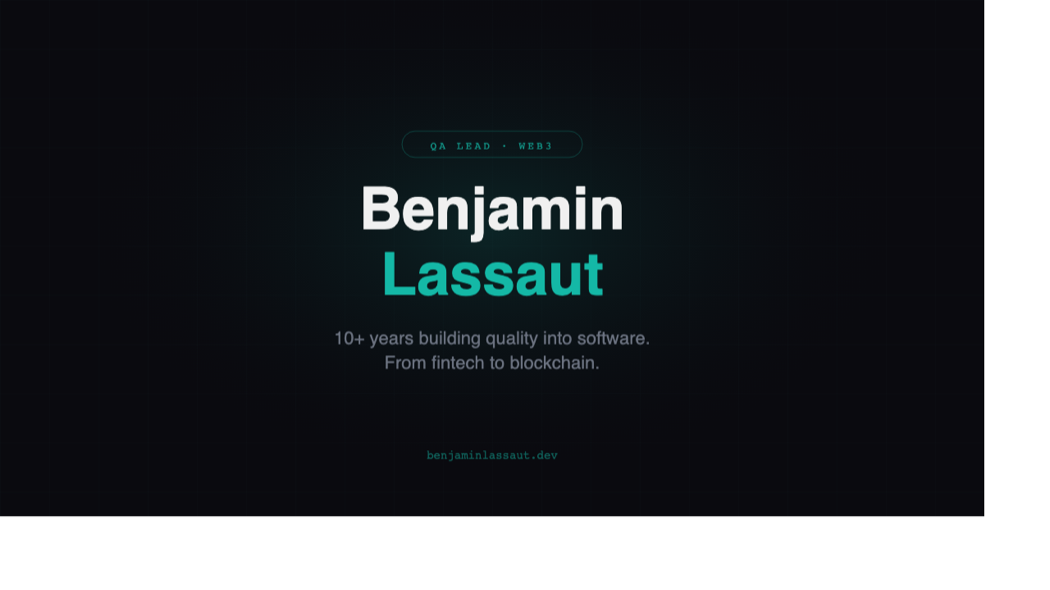
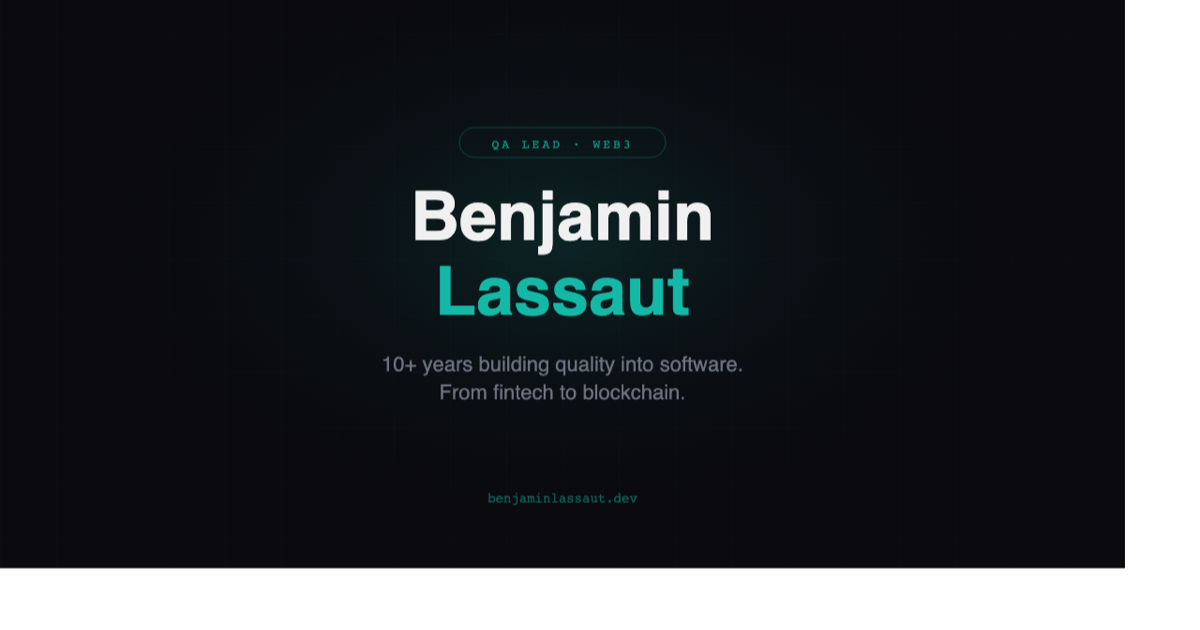
fix: correct OG image to 1200x630 and shorten description

diff --git a/index.html b/index.html
@@ -7,12 +7,12 @@
         <title>Benjamin Lassaut - QA Lead | Web3 Smart Contract Testing</title>
         <meta
             name="description"
-            content="Benjamin Lassaut - QA Lead at Kiln with 10+ years building quality into software. Specializing in smart contract testing across 20+ blockchain networks, from EVM to Solana and Cosmos."
+            content="Benjamin Lassaut - QA Lead at Kiln with 10+ years building quality into software. Smart contract testing across 20+ blockchain networks."
         />
         <meta property="og:title" content="Benjamin Lassaut - QA Lead | Web3 Smart Contract Testing" />
         <meta
             property="og:description"
-            content="QA Lead at Kiln with 10+ years building quality into software. Specializing in smart contract testing across 20+ blockchain networks, from EVM to Solana and Cosmos."
+            content="QA Lead at Kiln with 10+ years building quality into software. Smart contract testing across 20+ blockchain networks."
         />
         <meta property="og:type" content="website" />
         <meta property="og:url" content="https://benjaminlassaut.dev" />

diff --git a/src/pages/Home.tsx b/src/pages/Home.tsx
@@ -11,7 +11,7 @@ export default function Home() {
     <>
       <Helmet>
         <title>Benjamin Lassaut - QA Lead | Web3 Smart Contract Testing</title>
-        <meta name="description" content="Benjamin Lassaut - QA Lead at Kiln with 10+ years building quality into software. Specializing in smart contract testing across 20+ blockchain networks, from EVM to Solana and Cosmos." />
+        <meta name="description" content="Benjamin Lassaut - QA Lead at Kiln with 10+ years building quality into software. Smart contract testing across 20+ blockchain networks." />
         <link rel="canonical" href="https://benjaminlassaut.dev" />
         <script type="application/ld+json">{JSON.stringify({
           '@context': 'https://schema.org',
